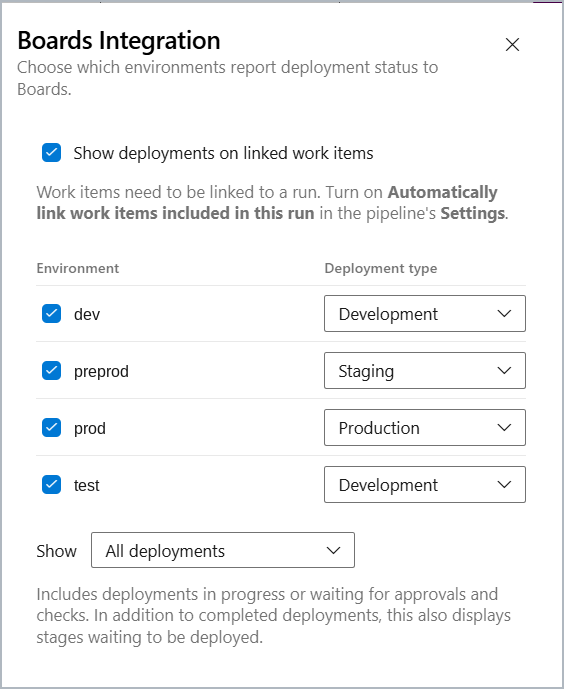
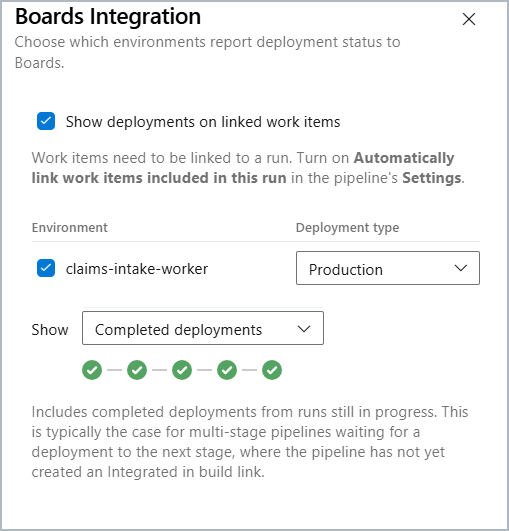
Show the difference between the Show options with stage symbols (#65)
## Summary

The Show setting in the Boards Integration panel and the README now show
what each option includes with a row of five stage symbols.

| Option | Symbols |
|---|---|
| All deployments | 3 completed, 1 waiting, 1 not started |
| Completed deployments | 5 completed |
| Completed runs only | 4 completed, 1 not started |

- The panel shows the row under the Show dropdown and changes it with
the selection. The row has a text alternative for screen readers ("3
completed, 1 waiting, 1 not started").
- The README lists the options in a table with the same symbols as
images.
- The symbols use the same colours and glyphs as the Deployment section
on the work item. The work item bundle is unchanged; the code is in the
settings panel only.
- The symbol definitions and their text alternatives are in
`src/Contracts.ts` with tests in `src/Contracts.test.ts`.

## Checks

- `npm test` passes (89 tests).
- `npx tsc --noEmit` and `npm run build` pass.
- The symbols were rendered from the component in Chromium and compared
with the requested design.
- Not checked in Azure DevOps. The dev extension built from this branch
shows the panel.
- `static/screenshots/boards-integration.png` does not show the symbols
yet; it needs a new screenshot from a real organization.

---
_Generated by [Claude
Code](https://claude.ai/code/session_011BfKLbG2BQRFEqF8NF4V4p)_

---------

diff --git a/src/PipelineSettings/ShownSymbols.tsx b/src/PipelineSettings/ShownSymbols.tsx
@@ -1,0 +1,69 @@
+import * as React from "react";
+
+import { DEPLOYMENTS_SHOWN_SYMBOLS, DeploymentsShown, StageSymbol, symbolsLabel } from "../Contracts";
+
+/** The same status colours and glyphs as the Deployment section on the work item. */
+const SUCCESS = "var(--component-status-success, rgba(85, 163, 98, 1))";
+const INFO = "var(--component-status-info, rgba(0, 120, 212, 1))";
+const NEUTRAL = "var(--component-status-neutral, rgba(102, 102, 102, 1))";
+
+const CHECK =
+    "M6.062 11.144l-.003-.002-1.784-1.785A.937.937 0 1 1 5.6 8.031l1.125 1.124 3.88-3.88A.937.937 0 1 1 11.931 6.6l-4.54 4.54-.004.004a.938.938 0 0 1-1.325 0z";
+const CLOCK =
+    "M8 3.5a.9.9 0 0 1 .9.9v3.325l2.002 2.001A.9.9 0 1 1 9.629 11L7.408 8.778A.898.898 0 0 1 7.1 8.1V4.4a.9.9 0 0 1 .9-.9z";
+const RING = "M8 16A8 8 0 1 0 8 0a8 8 0 0 0 0 16zm0-1.5a6.5 6.5 0 1 0 0-13 6.5 6.5 0 0 0 0 13z";
+
+const SIZE = 16;
+const GAP = 20;
+const SCALE = 1.25;
+
+function Symbol(props: { symbol: StageSymbol; x: number }): JSX.Element {
+    const { symbol, x } = props;
+    if (symbol === "notStarted") {
+        return (
+            <g transform={`translate(${x} 0)`} style={{ color: NEUTRAL }}>
+                <circle cx="8" cy="8" r="7" fill="#fff" />
+                <path d={RING} fill="currentColor" fillRule="evenodd" clipRule="evenodd" />
+            </g>
+        );
+    }
+    return (
+        <g transform={`translate(${x} 0)`} style={{ color: symbol === "completed" ? SUCCESS : INFO }}>
+            <circle cx="8" cy="8" r="8" fill="currentColor" />
+            <path d={symbol === "completed" ? CHECK : CLOCK} fill="#fff" fillRule="evenodd" clipRule="evenodd" />
+        </g>
+    );
+}
+
+/** Five stages in a row, drawn like a pipeline, that show what the selected option includes. */
+export default function ShownSymbols(props: { shown: DeploymentsShown }): JSX.Element {
+    const symbols = DEPLOYMENTS_SHOWN_SYMBOLS[props.shown];
+    const width = symbols.length * SIZE + (symbols.length - 1) * GAP;
+
+    return (
+        <svg
+            className="dsb-symbols"
+            viewBox={`0 0 ${width} ${SIZE}`}
+            width={width * SCALE}
+            height={SIZE * SCALE}
+            role="img"
+            aria-label={symbolsLabel(props.shown)}
+            focusable="false"
+        >
+            {symbols.slice(1).map((_symbol, index) => (
+                <line
+                    key={`link-${index}`}
+                    x1={(index + 1) * (SIZE + GAP) - GAP + 4}
+                    x2={(index + 1) * (SIZE + GAP) - 4}
+                    y1={SIZE / 2}
+                    y2={SIZE / 2}
+                    stroke="rgba(0, 0, 0, 0.22)"
+                    strokeWidth="1.5"
+                />
+            ))}
+            {symbols.map((symbol, index) => (
+                <Symbol key={index} symbol={symbol} x={index * (SIZE + GAP)} />
+            ))}
+        </svg>
+    );
+}

diff --git a/src/Contracts.ts b/src/Contracts.ts
@@ -35,6 +35,34 @@ export const DEPLOYMENTS_SHOWN_DESCRIPTIONS: Record<DeploymentsShown, string> = 
 
 export const DEPLOYMENTS_SHOWN: DeploymentsShown[] = ["all", "completedDeployments", "completedRuns"];
 
+/**
+ * A row of five stages that shows the difference between the options: a completed stage, a stage that is
+ * waiting or running, and a stage that has not started. Shown in the Boards Integration panel and the README.
+ */
+export type StageSymbol = "completed" | "waiting" | "notStarted";
+
+export const DEPLOYMENTS_SHOWN_SYMBOLS: Record<DeploymentsShown, StageSymbol[]> = {
+    all: ["completed", "completed", "completed", "waiting", "notStarted"],
+    completedDeployments: ["completed", "completed", "completed", "completed", "completed"],
+    completedRuns: ["completed", "completed", "completed", "completed", "notStarted"],
+};
+
+const SYMBOL_WORDS: Record<StageSymbol, string> = {
+    completed: "completed",
+    waiting: "waiting",
+    notStarted: "not started",
+};
+
+/** The symbols in words, for a screen reader. */
+export function symbolsLabel(shown: DeploymentsShown): string {
+    const counts = new Map<StageSymbol, number>();
+    for (const symbol of DEPLOYMENTS_SHOWN_SYMBOLS[shown]) counts.set(symbol, (counts.get(symbol) || 0) + 1);
+    return (["completed", "waiting", "notStarted"] as StageSymbol[])
+        .filter((symbol) => counts.has(symbol))
+        .map((symbol) => `${counts.get(symbol)} ${SYMBOL_WORDS[symbol]}`)
+        .join(", ");
+}
+
 export function deploymentsShown(config: PipelineConfig | undefined): DeploymentsShown {
     return (config && config.deploymentsShown) || "all";
 }

diff --git a/src/Contracts.test.ts b/src/Contracts.test.ts
@@ -1,0 +1,26 @@
+import { describe, expect, it } from "vitest";
+import { DEPLOYMENTS_SHOWN, DEPLOYMENTS_SHOWN_SYMBOLS, symbolsLabel } from "./Contracts";
+
+describe("symbols for the Show setting", () => {
+    it("draws five stages for every option", () => {
+        for (const shown of DEPLOYMENTS_SHOWN) expect(DEPLOYMENTS_SHOWN_SYMBOLS[shown]).toHaveLength(5);
+    });
+
+    it("all deployments shows completed stages, one waiting and one not started", () => {
+        expect(DEPLOYMENTS_SHOWN_SYMBOLS.all).toEqual(["completed", "completed", "completed", "waiting", "notStarted"]);
+    });
+
+    it("completed deployments shows only completed stages", () => {
+        expect(DEPLOYMENTS_SHOWN_SYMBOLS.completedDeployments).toEqual(Array(5).fill("completed"));
+    });
+
+    it("completed runs only is like all deployments, without a waiting stage", () => {
+        expect(DEPLOYMENTS_SHOWN_SYMBOLS.completedRuns).toEqual(["completed", "completed", "completed", "completed", "notStarted"]);
+    });
+
+    it("describes the symbols in words for a screen reader", () => {
+        expect(symbolsLabel("all")).toBe("3 completed, 1 waiting, 1 not started");
+        expect(symbolsLabel("completedDeployments")).toBe("5 completed");
+        expect(symbolsLabel("completedRuns")).toBe("4 completed, 1 not started");
+    });
+});

diff --git a/src/PipelineSettings/PipelineSettingsPanel.tsx b/src/PipelineSettings/PipelineSettingsPanel.tsx
@@ -22,6 +22,7 @@ import {
 } from "../Contracts";
 import PipelineRunService, { EnvironmentSummary } from "../Services/PipelineRunService";
 import PipelineConfigService from "../Services/PipelineConfigService";
+import ShownSymbols from "./ShownSymbols";
 
 import "azure-devops-ui/Core/override.css";
 import "./PipelineSettingsPanel.scss";
@@ -233,6 +234,9 @@ function PipelineSettingsPanel(): JSX.Element {
                                             setConfig({ ...config, deploymentsShown: item.id as DeploymentsShown })
                                         }
                                     />
+                                </div>
+                                <div className="dsb-symbols-row">
+                                    <ShownSymbols shown={deploymentsShown(config)} />
                                 </div>
                                 <div className="dsb-note">
                                     {DEPLOYMENTS_SHOWN_DESCRIPTIONS[deploymentsShown(config)]}

diff --git a/src/PipelineSettings/PipelineSettingsPanel.scss b/src/PipelineSettings/PipelineSettingsPanel.scss
@@ -33,7 +33,7 @@ body,
 
 .dsb-note {
   color: rgba(var(--palette-neutral-100, 0, 0, 0), 0.55);
-  line-height: 18px;
+  line-height: 20px;
   padding: 12px 0;
 }
 
@@ -42,6 +42,19 @@ body,
   display: flex;
   gap: 12px;
   margin-top: 16px;
+}
+
+.dsb-option > span {
+  min-width: 44px;
+}
+
+/* Under the dropdown: the label column (44px) and the gap (12px) come first. */
+.dsb-symbols-row {
+  margin: 16px 0 12px 56px;
+}
+
+.dsb-symbols {
+  display: block;
 }
 
 .dsb-option-dropdown {

diff --git a/README.md b/README.md
@@ -39,9 +39,11 @@ A work item shows one deployment per environment: the first run that deployed it
 
 Choose which deployments to show:
 
-- All deployments (default): includes deployments in progress or waiting for approvals and checks. In addition to completed deployments, this also displays stages waiting to be deployed.
-- Completed deployments: includes completed deployments from runs still in progress. This is typically the case for multi-stage pipelines waiting for a deployment to the next stage, where the pipeline has not yet created an Integrated in build link.
-- Completed runs only: includes only deployments from completed runs. This is typically the case for a pipeline deploying to a single stage only. The integration only uses the Integrated in build link on the work item.
+| Symbols | Option | What is shown |
+|---|---|---|
+| ![Three completed stages, one waiting, one not started](static/screenshots/shown-all.png) | All deployments (default) | Includes deployments in progress or waiting for approvals and checks. In addition to completed deployments, this also displays stages waiting to be deployed. |
+| ![Five completed stages](static/screenshots/shown-completed-deployments.png) | Completed deployments | Includes completed deployments from runs still in progress. This is typically the case for multi-stage pipelines waiting for a deployment to the next stage, where the pipeline has not yet created an Integrated in build link. |
+| ![Four completed stages, one not started](static/screenshots/shown-completed-runs.png) | Completed runs only | Includes only deployments from completed runs. This is typically the case for a pipeline deploying to a single stage only. The integration only uses the Integrated in build link on the work item. |
 
 ![Boards Integration panel](static/screenshots/boards-integration.png)
 
